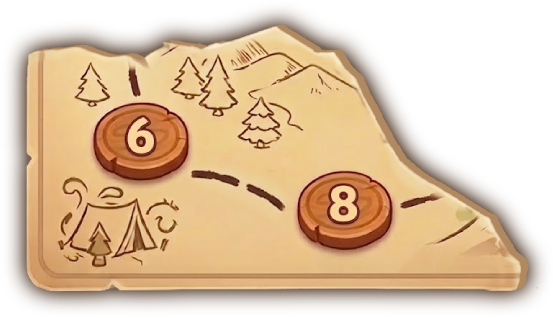
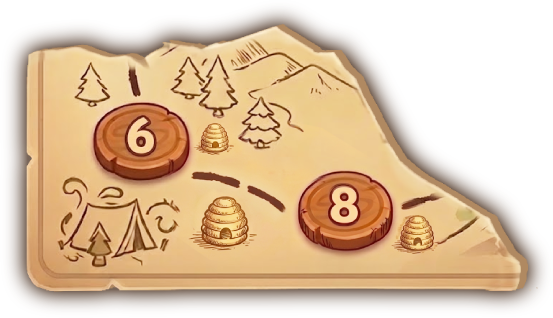
add hive header

Changed region(s): [[0.3074, 0.3396, 0.83, 0.8208], [0.5226, 0.3679, 0.5533, 0.4245]]

diff --git a/src/core/configuration/ForestEvent1Configuration.ts b/src/core/configuration/ForestEvent1Configuration.ts
@@ -313,6 +313,7 @@ export default class ForestEvent1Configuration {
 					}
 				],
 				"id": "57",
+				"header": "hiveHeader",
 				"environment": 0,
 				"leafType": "leaf1",
 				"steps": 11,
@@ -330,7 +331,7 @@ export default class ForestEvent1Configuration {
 					}
 				],
 				"id": "128",
-				"header": null,
+				"header": "hiveHeader",
 				"environment": 1,
 				"leafType": "leaf1",
 				"steps": 9,
@@ -356,7 +357,7 @@ export default class ForestEvent1Configuration {
 					}
 				],
 				"id": "92",
-				"header": "mountinesHeader",
+				"header": "hiveHeader",
 				"environment": 0,
 				"leafType": "leaf1",
 				"steps": 12,
@@ -377,7 +378,7 @@ export default class ForestEvent1Configuration {
 					}
 				],
 				"id": "47",
-				"header": "mountinesHeader",
+				"header": "hiveHeader",
 				"environment": 0,
 				"leafType": "leaf1",
 				"steps": 10,
@@ -402,6 +403,7 @@ export default class ForestEvent1Configuration {
 					}
 				],
 				"id": "25",
+				"header": "hiveHeader",
 				"environment": 0,
 				"leafType": "leaf1",
 				"steps": 13,

diff --git a/src/view/screen/LoadingScreen.ts b/src/view/screen/LoadingScreen.ts
@@ -409,6 +409,7 @@ export default class LoadingScreen extends BaseScreen {
         this.loadImage('bugForestHeader', 'assets/minigame7/bugForestHeader.png');
         this.loadImage('snailForestHeader', 'assets/minigame8/snailForestHeader.png');
         this.loadImage('cloverHeader', 'assets/minigame9/cloverHeader.png');
+        this.loadImage('hiveHeader', 'assets/minigame10/hiveheader.png');
         this.loadImage('forestHeader1', 'assets/base/ui/forestHeader1.png');
         this.loadImage('forestHeader2', 'assets/minigame3/forestHeader2.png');
 

diff --git a/src/view/screen/common/BaseScreen.ts b/src/view/screen/common/BaseScreen.ts
@@ -134,6 +134,12 @@ export default abstract class BaseScreen extends DebugScreen {
         } else {
             this.unloadAtlasGroup("minigame9");
         }
+
+        if ((forest && forest.header == "hiveHeader") || AdminService.isEditMode()) {
+            this.loadAtlasGroup("minigame10");
+        } else {
+            this.unloadAtlasGroup("minigame10");
+        }
     }
 
     protected loadOptionalConfiguredEventResources(includeAwaitingActivation?: boolean): void {
